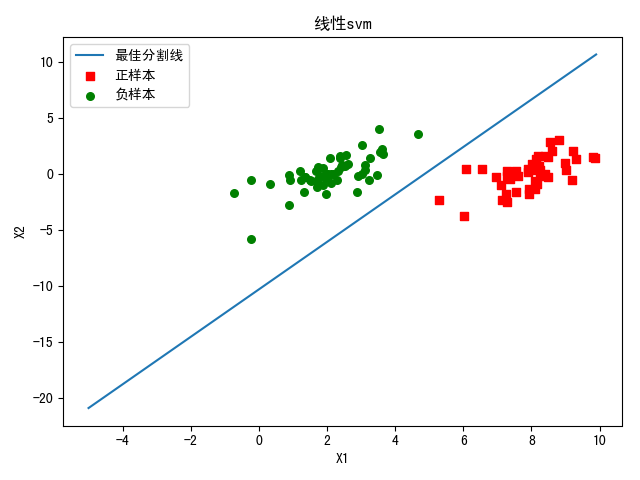
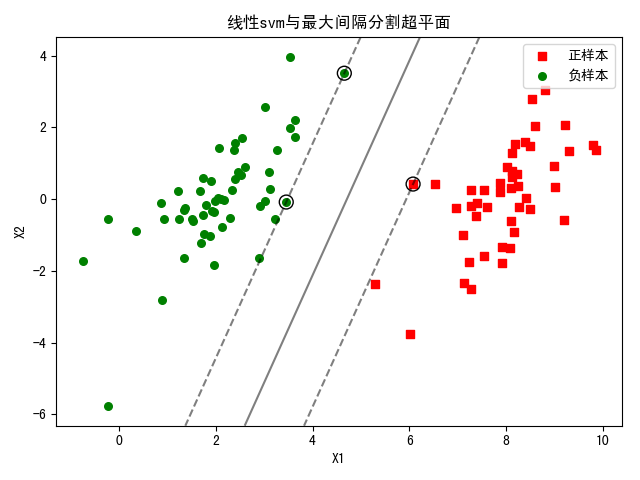
Add maximum margin separating hyperplane show.

diff --git a/SVM/svm_scikit.py b/SVM/svm_scikit.py
@@ -69,13 +69,14 @@ def plot_contours(ax, clf, xx, yy, **params):
     return out
 
 
-def show_best_fit_linear_clf(feature_arr, label_arr, weights, title):
-    """Show the best fit linear classifier.
+def show_best_fit_linear_clf(feature_arr, label_arr, clf, title):
+    """Show the best fit linear classifier and maximum margin separating
+    hyperplane.
 
     Args:
         feature_arr: The feature array.
         label_arr: The label array.
-        weights: The weights of x, y and bias. [bias_w, x_w, y_w]
+        clf: The classifier.
         title: The image title.
 
     Returns:
@@ -102,10 +103,33 @@ def show_best_fit_linear_clf(feature_arr, label_arr, weights, title):
     ax.scatter(xcord1, ycord1, s=30, c='red', marker='s', label="正样本")
     ax.scatter(xcord2, ycord2, s=30, c='green', label="负样本")
 
+    # Get the range of x and y
+    xlim = ax.get_xlim()
+    ylim = ax.get_ylim()
+    # print("xlim: {}, ylim: {}".format(xlim, ylim))
+
+    # Create grid.
+    xx = np.linspace(xlim[0], xlim[1], 50)
+    yy = np.linspace(ylim[0], ylim[1], 50)
+    XX, YY = np.meshgrid(xx, yy)
+    xy = np.vstack([XX.ravel(), YY.ravel()]).T
+
+    # Calc the predict label.
+    label = clf.decision_function(xy).reshape(XX.shape)
+
+    # Plot the decision boundary and margins.
+    ax.contour(XX, YY, label, colors="k", levels=[-1, 0, 1], alpha=0.5,
+               linestyles=['--', '-', '--'])
+    # plot support vectors
+    ax.scatter(clf.support_vectors_[:, 0], clf.support_vectors_[:, 1], s=100,
+               linewidth=1, facecolors='none', edgecolors='k')
+
     # Plot classifier line.
-    x = np.arange(-5.0, 10.0, 0.1)
-    y = (-weights[0] - weights[1] * x) / weights[2]
-    ax.plot(x, y.transpose(), label="最佳分割线")
+    # x = np.arange(-5.0, 10.0, 0.1)
+    # y = (-weights[0] - weights[1] * x) / weights[2]
+    # ax.plot(x, y.transpose(), label="最佳分割线")
+
+
     plt.xlabel('X1')
     plt.ylabel('X2')
     plt.title(title)
@@ -215,11 +239,12 @@ def linear_svm_fit(feature_arr, label_arr):
     Returns:
         The weights of x, y and bias. [bias_w, x_w, y_w]
     """
-    svc = svm.LinearSVC()
+    # svc = svm.LinearSVC()
+    svc = svm.SVC(kernel="linear", C=1000)
     svc.fit(feature_arr, label_arr)
-    weights = svc.intercept_.tolist()
-    weights.extend(svc.coef_[0])
-    return weights
+    # weights = svc.intercept_.tolist()
+    # weights.extend(svc.coef_[0])
+    return svc
 
 
 def nonlinear_svm_fit_and_test(train_feature_arr, train_label_arr,
@@ -251,8 +276,8 @@ def nonlinear_svm_fit_and_test(train_feature_arr, train_label_arr,
 if __name__ == "__main__":
     # Linear svm.
     feature_arr, label_arr = load_data_file("testSet.txt")
-    weights = linear_svm_fit(feature_arr, label_arr)
-    show_best_fit_linear_clf(feature_arr, label_arr, weights, "线性svm")
+    clf = linear_svm_fit(feature_arr, label_arr)
+    show_best_fit_linear_clf(feature_arr, label_arr, clf, "线性svm与最大间隔分割超平面")
 
     # nonlinear svm.
     train_feature_arr, train_label_arr = load_data_file("testSetRBF.txt")
